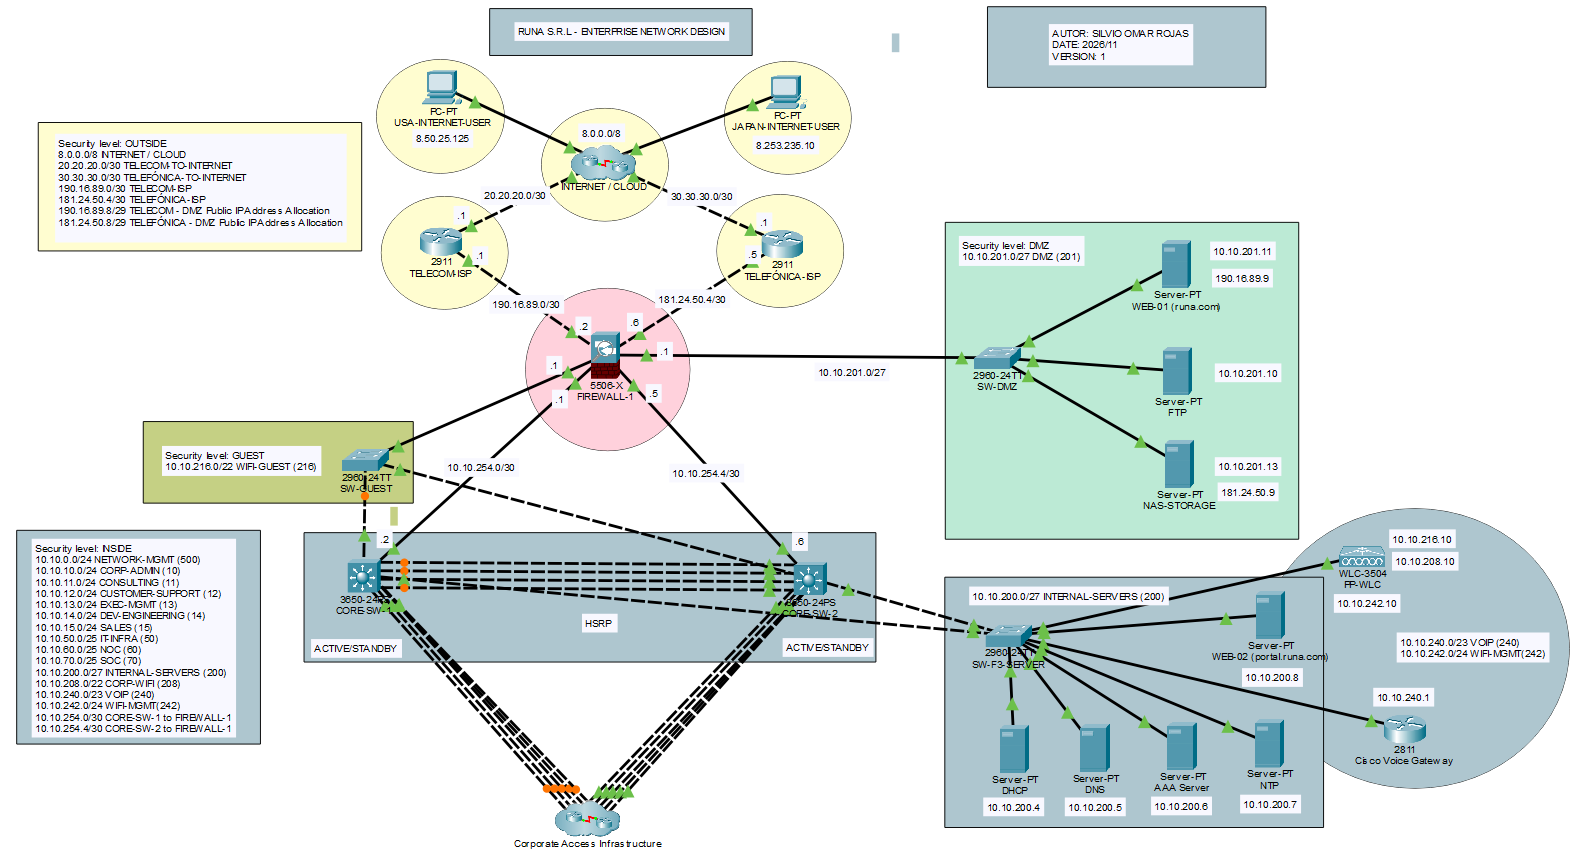
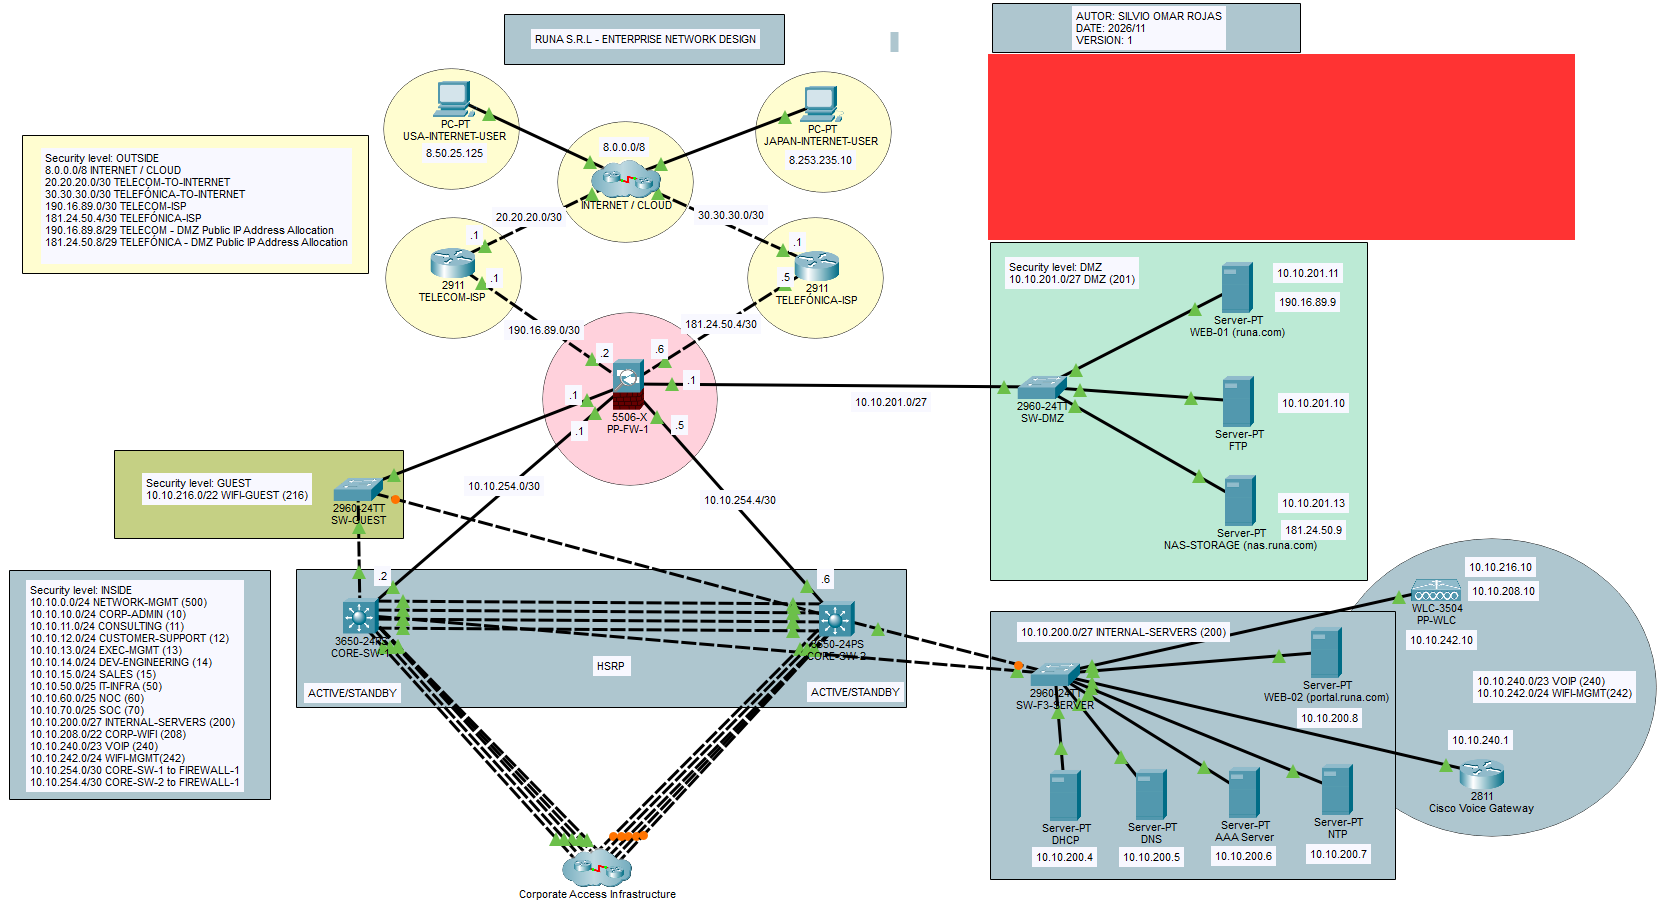
Added l2 diagram, l3 diagram, docs, and config files

Changed region(s): [[0.0, 0.0, 1.0, 0.9942], [0.959, 0.6327, 0.9899, 0.6929]]

diff --git a/docs/Departments.md b/docs/Departments.md
@@ -1,0 +1,54 @@
+# Departments
+| Department | Subdepartment | Site | Floor | VLAN Name | 
+|---|---|---|---|---|
+| Executive Management | Executive Leadership | PP | 2 | EXEC-MGMT | 
+| Executive Management | Corporate Strategy | PP | 2 | EXEC-MGMT | 
+| Executive Management | Project Management Office (PMO) | PP | 2 | EXEC-MGMT | 
+| Executive Management | Corporate Governance | PP | 2 | EXEC-MGMT | 
+| IT Infrastructure, Cybersecurity & Operations | Data Center Operations | PP | 3 | IT-INFRA | 
+| IT Infrastructure, Cybersecurity & Operations | Network Operations Center (NOC) | PP | 3 | NOC | 
+| IT Infrastructure, Cybersecurity & Operations | IT Infrastructure Administration | PP | 3 | IT-INFRA | 
+| IT Infrastructure, Cybersecurity & Operations | IT Operations | PP | 3 | IT-INFRA | 
+| IT Infrastructure, Cybersecurity & Operations | Help Desk Level 2 (Internal) | PP | 3 | IT-INFRA | 
+| IT Infrastructure, Cybersecurity & Operations | Help Desk Level 3 (Internal) | PP | 3 | IT-INFRA | 
+| IT Infrastructure, Cybersecurity & Operations | Security Operations Center (SOC) | PP | 3 | SOC | 
+| IT Infrastructure, Cybersecurity & Operations | Security Engineering | PP | 3 | SOC | 
+| IT Infrastructure, Cybersecurity & Operations | Incident Response | PP | 3 | SOC | 
+| IT Infrastructure, Cybersecurity & Operations | Governance, Risk & Compliance (GRC) | PP | 3 | NOC | 
+| IT Infrastructure, Cybersecurity & Operations | Identity & Access Management (IAM) | PP | 3 | NOC | 
+| IT Infrastructure, Cybersecurity & Operations | Vulnerability Management | PP | 3 | SOC | 
+| Consulting & Professional Services | Business Consulting | PP | 1 | CONSULTING | 
+| Consulting & Professional Services | IT Consulting | PP | 1 | CONSULTING | 
+| Consulting & Professional Services | Cybersecurity Consulting | PP | 1 | CONSULTING | 
+| Consulting & Professional Services | Enterprise Solutions | PP | 1 | CONSULTING | 
+| Consulting & Professional Services | Senior Business Consultants | PP | 1 | CONSULTING | 
+| Software Engineering & Technology | Software Development | PP | 2 | DEV-ENGINEERING | 
+| Software Engineering & Technology | Software Architecture | PP | 2 | DEV-ENGINEERING | 
+| Software Engineering & Technology | DevOps & Platform Engineering | PP | 2 | DEV-ENGINEERING | 
+| Software Engineering & Technology | Cloud Engineering | PP | 2 | DEV-ENGINEERING | 
+| Software Engineering & Technology | Quality Assurance (QA) | PP | 2 | DEV-ENGINEERING | 
+| Software Engineering & Technology | Database Administration | PP | 2 | DEV-ENGINEERING | 
+| Software Engineering & Technology | Research & Development (R&D) | PP | 2 | DEV-ENGINEERING | 
+| Sales & Business Development | Corporate Sales | PP | 2 | SALES | 
+| Sales & Business Development | Business Development | PP | 2 | SALES | 
+| Sales & Business Development | Account Management | PP | 2 | SALES | 
+| Sales & Business Development | Presales Engineering | PP2 | 2 | SALES | 
+| Sales & Business Development | Marketing | PP | 2 | SALES | 
+| Corporate & Administrative Services | Human Resources (HR) | PP | 1 | CORP-ADMIN | 
+| Corporate & Administrative Services | Finance & Accounting | PP | 1 | CORP-ADMIN | 
+| Corporate & Administrative Services | Legal Department | PP | 1 | CORP-ADMIN | 
+| Corporate & Administrative Services | Procurement | PP | 1 | CORP-ADMIN | 
+| Corporate & Administrative Services | Corporate Operations | PP | 1 | CORP-ADMIN | 
+| Corporate & Administrative Services | Facilities Management | PP | 1 | CORP-ADMIN | 
+| Customer Experience & Technical Support | Help Desk Level 1 (External) | PP | 1 | CUSTOMER-SUPPORT | 
+| Customer Experience & Technical Support | Customer Success | PP | 1 | CUSTOMER-SUPPORT | 
+| Customer Experience & Technical Support | IT Service Management | PP | 1 | CUSTOMER-SUPPORT | 
+
+## 
+### Acronyms and Abbreviations:
+
+PP: Parque Patricios Headquarters
+
+RE: Retiro Corporate Office
+
+CO: Córdoba Regional Branch

diff --git a/docs/Devices.md b/docs/Devices.md
@@ -1,0 +1,92 @@
+# RUNA SRL - Network Equipment
+
+Portfolio project: Enterprise Network Architecture (v1.0, november 2026).
+
+## Summary
+
+| Category | Quantity |
+|---|---|
+| Firewall | 1 |
+| Switches L3 (core) | 2 |
+| Access Switches | 9 |
+| Routers | 4 (1 Internet + 2 ISP + 1 Voice GW) |
+| WLAN Controller | 1 |
+| Access Points | 5 |
+| Servers | 9 |
+| End devices | 37 (includes 2 Internet users) |
+
+## Security, routing and core
+
+| Name | Model | Function | IP / VLAN |
+|---|---|---|---|
+| PP-FW-1 | Cisco ASA 5506-X | Perimeter firewall. GUEST and DMZ gateway| .1 in VLANs 216 and 201, 10.10.254.1 and .5 toward the cores
+| CORE-SW-1 | Catalyst 3650-24PS | Core, active HSRP, root bridge STP | .2 in each VLAN, 10.10.254.2/30 |
+| CORE-SW-2 | Catalyst 3650-24PS | Core, HSRP standby | .3 in each VLAN, 10.10.254.6/30 |
+| Voice GW | Cisco 2811 | VoIP Gateway | 10.10.240.1 (VLAN 240) |
+| TELECOM-ISP | Cisco 2911 | ISP 1 Router | 190.16.89.1/30 |
+| TELEFÓNICA-ISP | Cisco 2911 | ISP 2 Router | 181.24.50.5/30 |
+| INTERNET / CLOUD | Cisco 2911 | Simulate the Internet | 8.0.0.1/8 |
+
+
+## Access Switches (Cisco 2960-24TT)
+
+| Name | Location | User VLANs | Uplinks |
+|---|---|---|---|
+| SW-F1-1 | 1° Floor | 10 (CORP-ADMIN) | CORE-SW-1 and CORE-SW-2 |
+| SW-F1-2 | 1° Floor | 11 (CONSULTING), 12 (CUSTOMER-SUPPORT) | CORE-SW-1 and CORE-SW-2 |
+| SW-F2-1 | 2° Floor | 13 (EXEC-MGMT) | CORE-SW-1 and CORE-SW-2 |
+| SW-F2-2 | 2° Floor | 14 (DEV-ENGINEERING), 15 (SALES) | CORE-SW-1 and CORE-SW-2 |
+| SW-F3-1 | 3° Floor | 50 (IT-INFRA), 60 (NOC), 70 (SOC) | CORE-SW-1 and CORE-SW-2 |
+| SW-F3-SERVER | 3° Floor | 200 (INTERNAL-SERVERS) | CORE-SW-1 and CORE-SW-2 |
+| SW-GUEST | 3° Floor | 216 (WIFI-GUEST) | CORE-SW-1 and CORE-SW-2 (trunk) and Fa0/1 to firewall |
+| SW-DMZ | 3° Floor | 201 (DMZ) | Gi0/1 to firewall (access VLAN 201) |
+| SW-INTERNET | Internet / Cloud | - | Router-Internet | 
+
+## Wireless
+
+| Name | Model | Location | Notes |
+|---|---|---|---|
+| PP-WLC | Cisco WLC-3504 | 3° Floor | 10.10.208.10 (CORP-WIFI), 10.10.216.10 (GUEST), 10.10.242.10 (WIFI-MGMT) |
+| PP-AP-F1-1 | Cisco 3702i | 1° Floor | Trunk, native VLAN 242, allowed 208, 216, 242 |
+| PP-AP-F1-2 | Cisco 3702i | 1° Floor | Trunk, native VLAN 242, allowed 208, 216, 242 |
+| PP-AP-F2-1 | Cisco 3702i | 2° Floor | Trunk, native VLAN 242, allowed 208, 216, 242 |
+| PP-AP-F2-2 | Cisco 3702i | 2° Floor | Trunk, native VLAN 242, allowed 208, 216, 242 |
+| PP-AP-F3-1 | Cisco 3702i | 3° Floor | Trunk, native VLAN 242, allowed 208, 216, 242 |
+
+## Servers
+
+### DMZ (VLAN 201, 10.10.201.0/27)
+
+| Name | Private IP | Public IP |
+|---|---|---|
+| WEB-01 (runa.com) | 10.10.201.11 | 190.16.89.9 |
+| FTP | 10.10.201.10 | - |
+| NAS-STORAGE (nas.runa.com) | 10.10.201.13 | 181.24.50.9 |
+
+### Internal (VLAN 200, 10.10.200.0/27)
+
+| Name | IP |
+|---|---|
+| DHCP | 10.10.200.4 |
+| DNS | 10.10.200.5 |
+| AAA | 10.10.200.6 |
+| NTP | 10.10.200.7 |
+| WEB-02 (portal.runa.com) | 10.10.200.8 |
+
+### External (Internet / Cloud 8.0.0.0/8)
+
+| Name | IP |
+|---|---|
+| Google (DNS, WEB) | 8.8.8.8 |
+
+## End devices
+
+| Type | Model in Packet Tracer | Quantity |
+|---|---|---|
+| Corporate PCs | PC-PT | 5 |
+| Printers | Printer-PT | 5 |
+| IP phones | Cisco 7960 | 10 |
+| Laptops | Laptop-PT | 5 |
+| Tablets | TabletPC-PT | 5 |
+| Smartphones | Smartphone-PT | 5 |
+| Internet Users | PC-PT (USA 8.50.25.125 and JAPAN 8.253.235.10) | 2 |

diff --git a/docs/Networks.md b/docs/Networks.md
@@ -1,0 +1,29 @@
+# Networks
+| Subnet | VLAN | Zone | Description |
+|---|---|---|---|
+| 8.0.0.0/8 | n/a | OUTSIDE | INTERNET / CLOUD |
+| 20.20.20.0/30 | n/a | OUTSIDE | TELECOM-TO-INTERNET |
+| 30.30.30.0/30 | n/a | OUTSIDE | TELEFÓNICA-TO-INTERNET |
+| 190.16.89.0/30 | n/a | OUTSIDE | TELECOM-ISP |
+| 181.24.50.4/30 | n/a | OUTSIDE | TELEFÓNICA-ISP |
+| 190.16.89.8/29 | n/a | OUTSIDE | TELECOM - DMZ Public IP Address Allocation |
+| 181.24.50.8/29 | n/a | OUTSIDE | TELEFÓNICA - DMZ Public IP Address Allocation |
+| 10.10.0.0/24 | 500 | INSIDE | NETWORK-MGMT |
+| 10.10.10.0/24 | 10 | INSIDE | CORP-ADMIN |
+| 10.10.11.0/24 | 11 | INSIDE | CONSULTING |
+| 10.10.12.0/24 | 12 | INSIDE | CUSTOMER-SUPPORT |
+| 10.10.13.0/24 | 13 | INSIDE | EXEC-MGMT |
+| 10.10.14.0/24 | 14 | INSIDE | DEV-ENGINEERING |
+| 10.10.15.0/24 | 15 | INSIDE | SALES |
+| 10.10.50.0/25 | 50 | INSIDE | IT-INFRA |
+| 10.10.60.0/25 | 60 | INSIDE | NOC |
+| 10.10.70.0/25 | 70 | INSIDE | SOC |
+| 10.10.200.0/27 | 200 | INSIDE | INTERNAL-SERVERS |
+| 10.10.201.0/27 | 201 | DMZ | DMZ |
+| 10.10.208.0/22 | 208 | INSIDE | CORP-WIFI |
+| 10.10.216.0/22 | 216 | GUEST | WIFI-GUEST |
+| 10.10.240.0/23 | 240 | INSIDE | VOIP |
+| 10.10.242.0/24 | 242 | INSIDE | WIFI-MGMT |
+| 10.10.254.0/30 | n/a | INSIDE | CORE-SW-1 to FIREWALL-1 |
+| 10.10.254.4/30 | n/a | INSIDE | CORE-SW-2 to FIREWALL-1 |
+

diff --git a/docs/RUNA_Network_Technologies_and_Configurations.md b/docs/RUNA_Network_Technologies_and_Configurations.md
@@ -14,13 +14,14 @@
 |---|---|---|---|
 | Network devices (console) | n/a | `cisco` | Local |
 | Network devices (SSH) | `admin` | `Runa-Lab-2026!` | Local fallback if the TACACS+ server is unreachable |
-| Privileged mode (`enable`) | n/a | `cisco` | Same on all switches |
+| Privileged mode (`enable`) | n/a | `cisco` | Same on all switches, routers and firewall |
 | TACACS+ server (AAA) | `silvio.rojas` | `Runa-Lab-2026!` | Server at 10.10.200.6 |
 | TACACS+ shared key | n/a | `{View on Packet Tracer}` | Configured on the switches |
 | WLC web interface | `admin` | `Runa-Lab-2026!` | `https://10.10.242.10 or https://wlc.runa.com` |
 | CORP-WIFI | n/a | `Runa-Lab-2026!` | WPA2-PSK |
 | GUEST-WIFI | n/a | n/a | Open network, isolated on VLAN 216 |
-| Voice Gateway | `silvio.rojas` | `Runa-Lab-2026!` | Configured on the Voice Gateway |
+| Voice Gateway (Console) | n/a | `Runa-Lab-2026!` | Configured on the Voice Gateway |
+| Voice Gateway (SSH) | `silvio.rojas` | `Runa-Lab-2026!` | Configured on the Voice Gateway |
 
 ### How to Access the Devices
 
